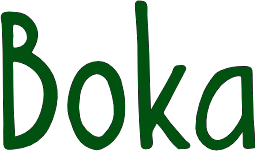
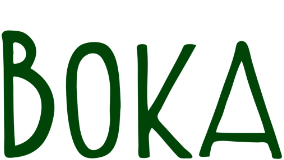
fixed nav imgs clean

diff --git a/_layouts/sorsjon.html b/_layouts/sorsjon.html
@@ -123,30 +123,16 @@
 			margin-top:30px;
 		}
 		
-		
-        
-        .navitem{
-            font-size:22px;
-            margin:0px 8px;
-            text-decoration:none;
+        .navitem {
+            font-size: 22px;
+            margin: 0px 8px;
+            text-decoration: none;
         }
-		
-		.sticky {		  
-		 
-		  top: 0;
-		  width:100%;
-	  }
-	  position: fixed;
-	  position: -webkit-sticky;
-	  
-	  .sticky + #sorsjonallcontent {
-	  }
         
         footer {
             text-align: center;
             margin-top: 50px;
             font-size: 12px;
-            font-style:;
         }
         
         .timmar {
@@ -199,7 +185,6 @@
 	            display:flex;
 	            flex-wrap:wrap;
 				justify-content:space-evenly;
-				background-color:white;
             }
 			
 			#aktul {
@@ -215,53 +200,27 @@
 		
 			
             .navbutton{
-                box-sizing:border-box;
-			   font-size:39px;
-                text-decoration: none;
-			   border:none;
-                color: black;
-                text-align:center;
-                padding: 15px 12px;
-                display: inline-block;
-				background-color:white;
-				font-weight:300;
-            }
+              box-sizing: border-box;
+			  border: none;
+              padding: 10px 12px;
+              display: inline-block;
+    		}
 			
            .navbutton:hover {
-   		margin-top:px;
-           border:none;
-   		padding-bottom:px;
-       }
+      		 border: none;
+   			 padding-bottom:p x;
+     	  }
 	   
-	   .navbutton:active {
-             border:none;
-	     	margin-top:0px;
-		   	padding-bottom:0px;	  
-	   }
+		   .navbutton:active {
+             border: none;
+	     	margin-top: 0px;
+		   	padding-bottom: 0px;	  
+		   }
 	   
-	   .navimg {
-		   height:42px;
-		   margin-top:px;
+		   .navimg {
+		   height:51px;
 	   }
 	   
-	   .navimgsmall {
-		   height:50px;
-		   margin-top:-7px;
-	   }
-	   .navimgsmall2 {
-		   height:46px;
-		   margin-top:-2px;
-	   }
-	   
-	   .navimgcaps {
-		   height:40px;
-	   }
-	   
-	   .navimgboka {
-		   height:50px;
-		   margin-top:-2px;
-	   }
-			
 			.webfragor {
 				display:none;
 			}
@@ -277,10 +236,7 @@
 				display:none;
 			}
 			
-			.bokanav {
-				font-weight:500;
-			}
-			
+		
 			
 			#introserie {
 				display:flex;
@@ -646,8 +602,7 @@
 
   	 }	
 			
-			
-			
+	
 			
 			
 			
@@ -707,26 +662,8 @@
                }
 			   
 			   .navimg {
-				   height:65px;
+				   height:49px;
 				   margin-top:px;
-			   }
-			   
-			   .navimgsmall {
-				   height:47px;
-				   margin-top:-7px;
-			   }
-			   .navimgsmall2 {
-				   height:44px;
-				   margin-top:-2px;
-			   }
-			   
-			   .navimgcaps {
-				   height:40px;
-			   }
-			   
-			   .navimgboka {
-				   height:50px;
-				   margin-top:-2px;
 			   }
 			   
 			   .mobilfind {
@@ -822,8 +759,8 @@
                
                
                #aktiviteternav{
-                   padding-top:10px;
-                   padding-bottom:10px;
+				   padding-top:0px;
+                   margin-bottom:20px;
                }
 			   
 	 	   	  #aktul {
@@ -834,7 +771,6 @@
 	 	   		margin-top:0px;
 	 			margin-bottom:-105px;
 	 	   		width:100%;
-	 	   		background-color:white;
 				display:flex;
 				justify-content:space-between;
 	 	   	  }
@@ -1383,8 +1319,8 @@
 	   	  border-bottom:1px dotted black;
 	  
 	    	 }
-	 
-
+			 
+			
         
 			  
        }        
@@ -1416,12 +1352,10 @@
     <div id="centerdiv">
         <header>
             <div id="headerall">
-				
-                <div id="headerlogo">
-                    <a href="/sorsjon"> <img id="logga" src="/sorsjon/images/sorsjonheader.png"></a>
-                </div>
-                <div id="mainnavdiv" style="display:none;">
-                    <a href="/english" class="navitem">English</li></a>
+				<div id="headerlogo">
+                    <a href="/sorsjon"> 
+						<img id="logga" src="/sorsjon/images/sorsjonheader.png">
+					</a>
                 </div>
             </div>
         </header>
@@ -1454,6 +1388,7 @@
         </script>
 	        <div id="footer">
 	            <a class="footeritem" href="tel:+461161175">+46 (0) 11 611 75</a> <a class="footeritem" href="mailto:info@aventyrsupplevelser.com">info@aventyrsupplevelser.com</a>
+				
 				<script id="js-turitop" src="https://app.turitop.com/js/load-turitop.min.js" data-company="V196" data-ga="no" data-buttoncolor="green" data-afftag="ttafid"></script>
 	        </div>
     </div>
